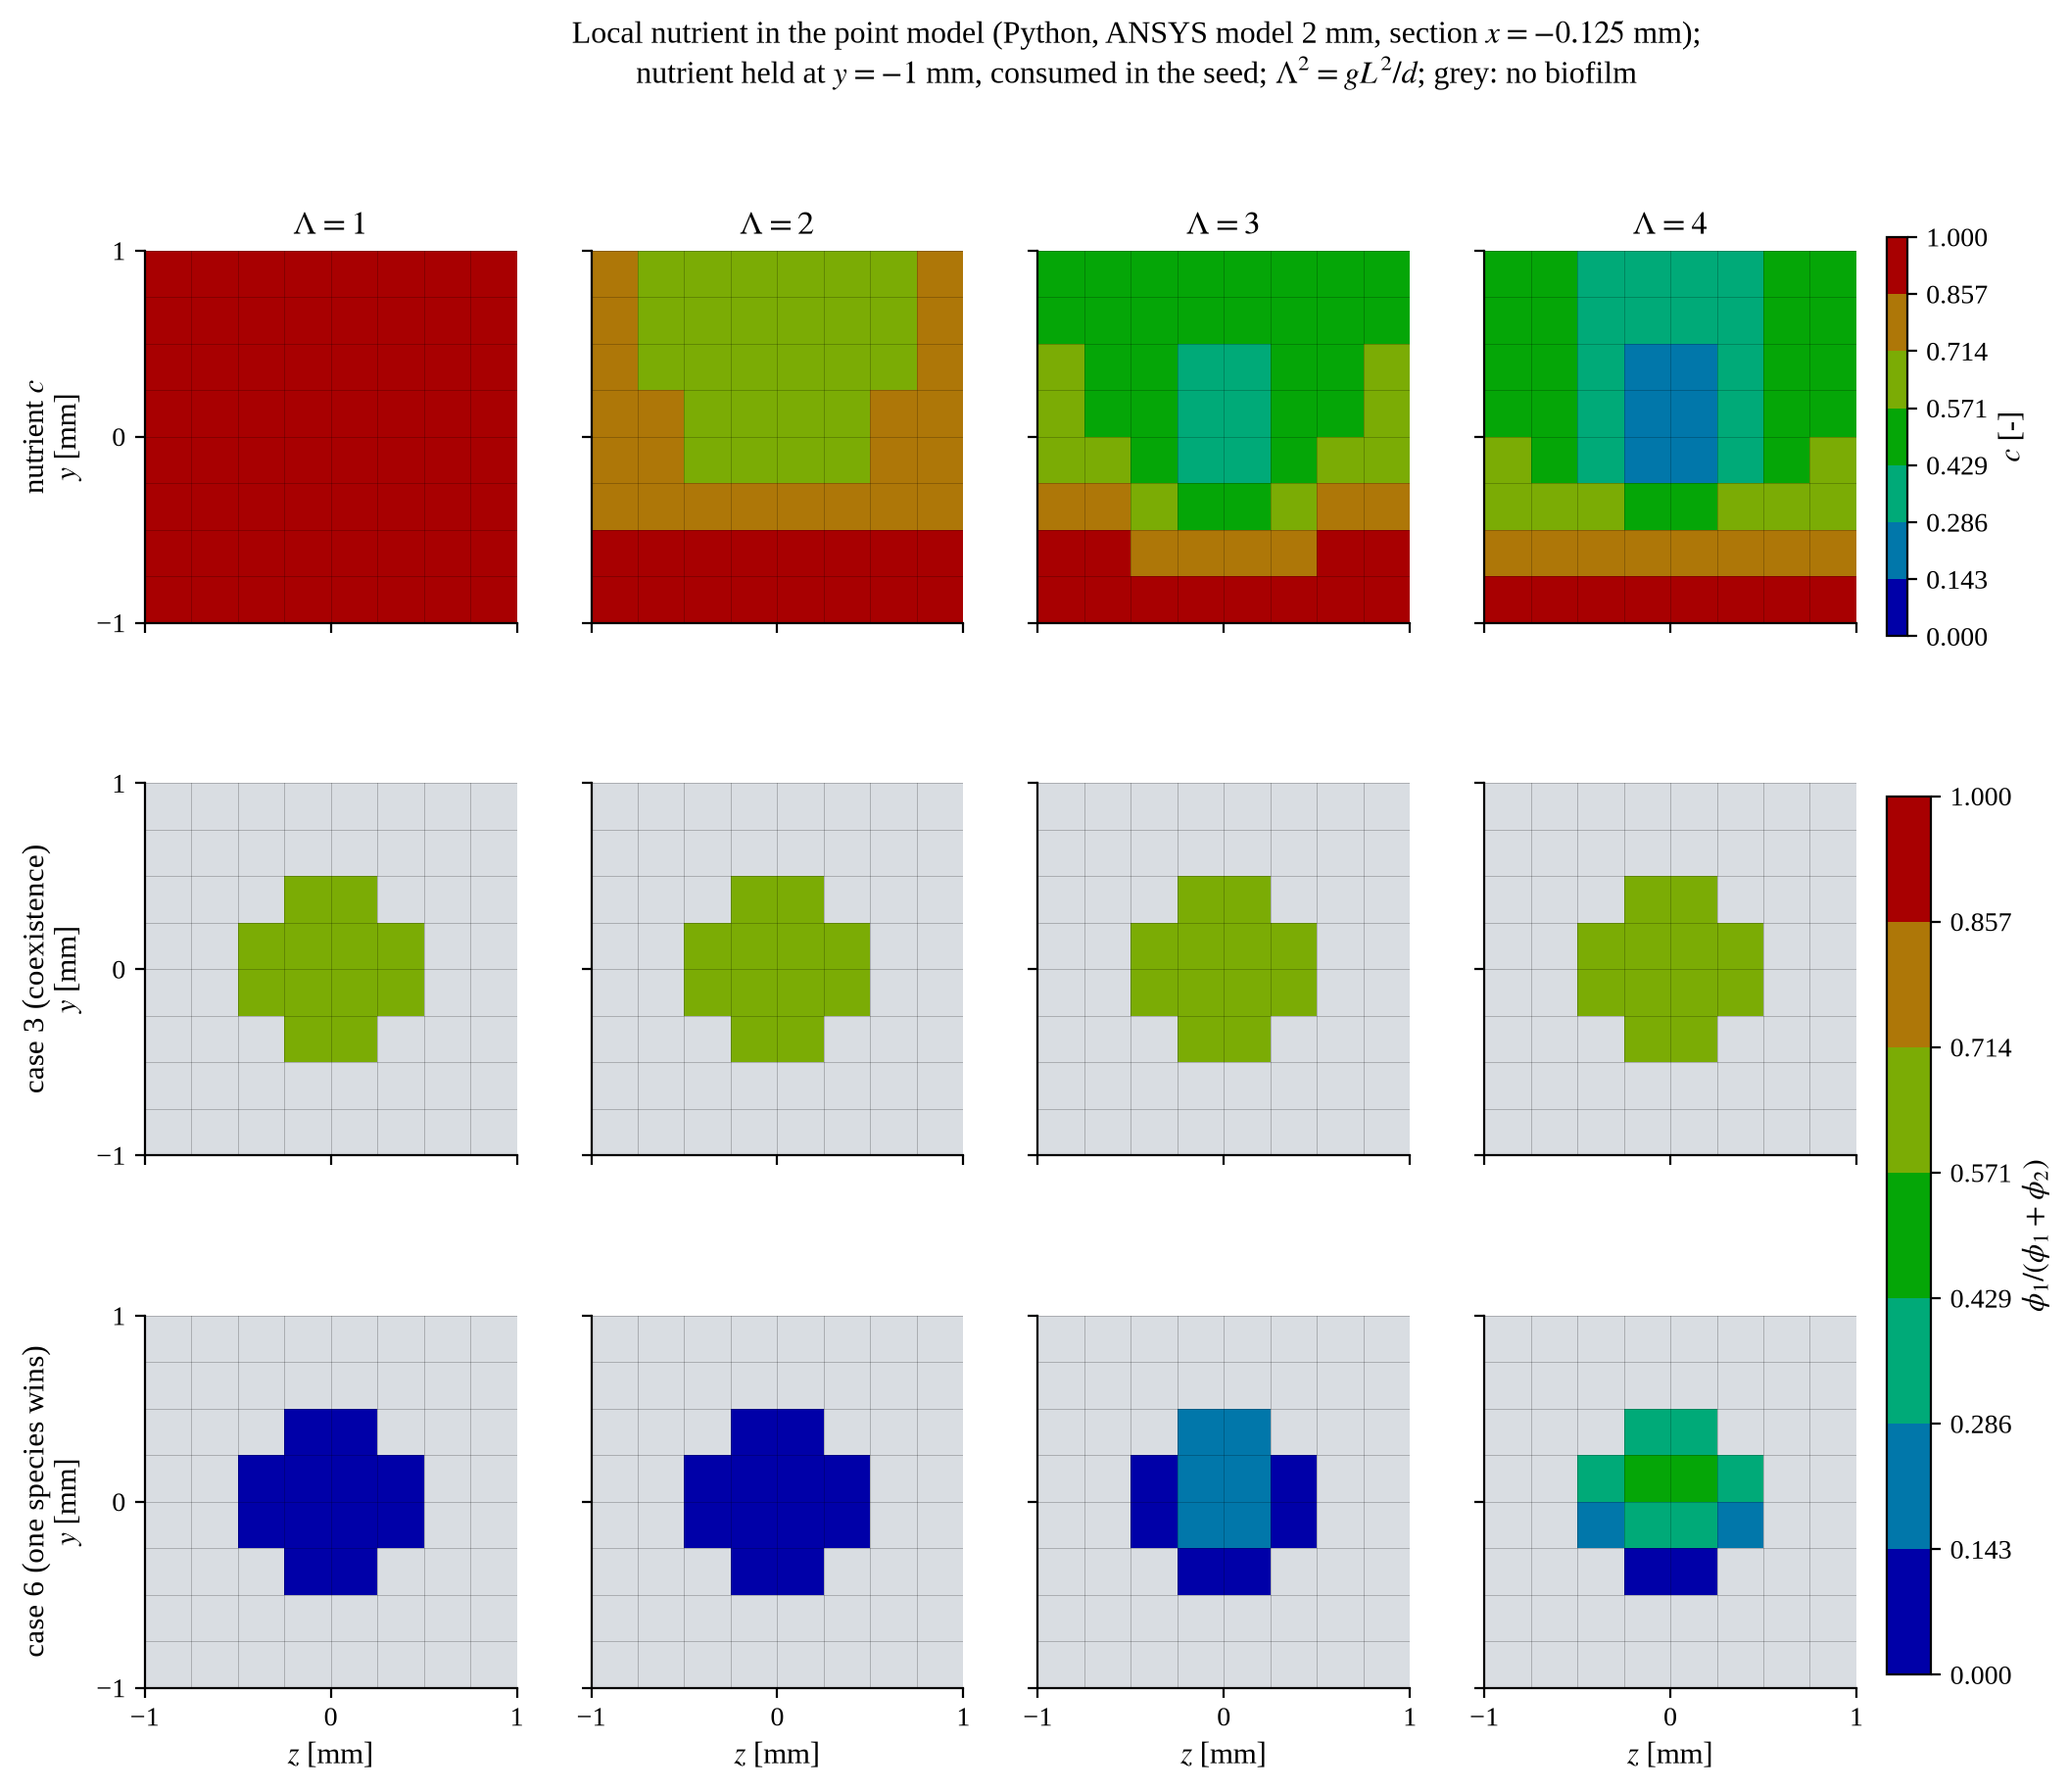
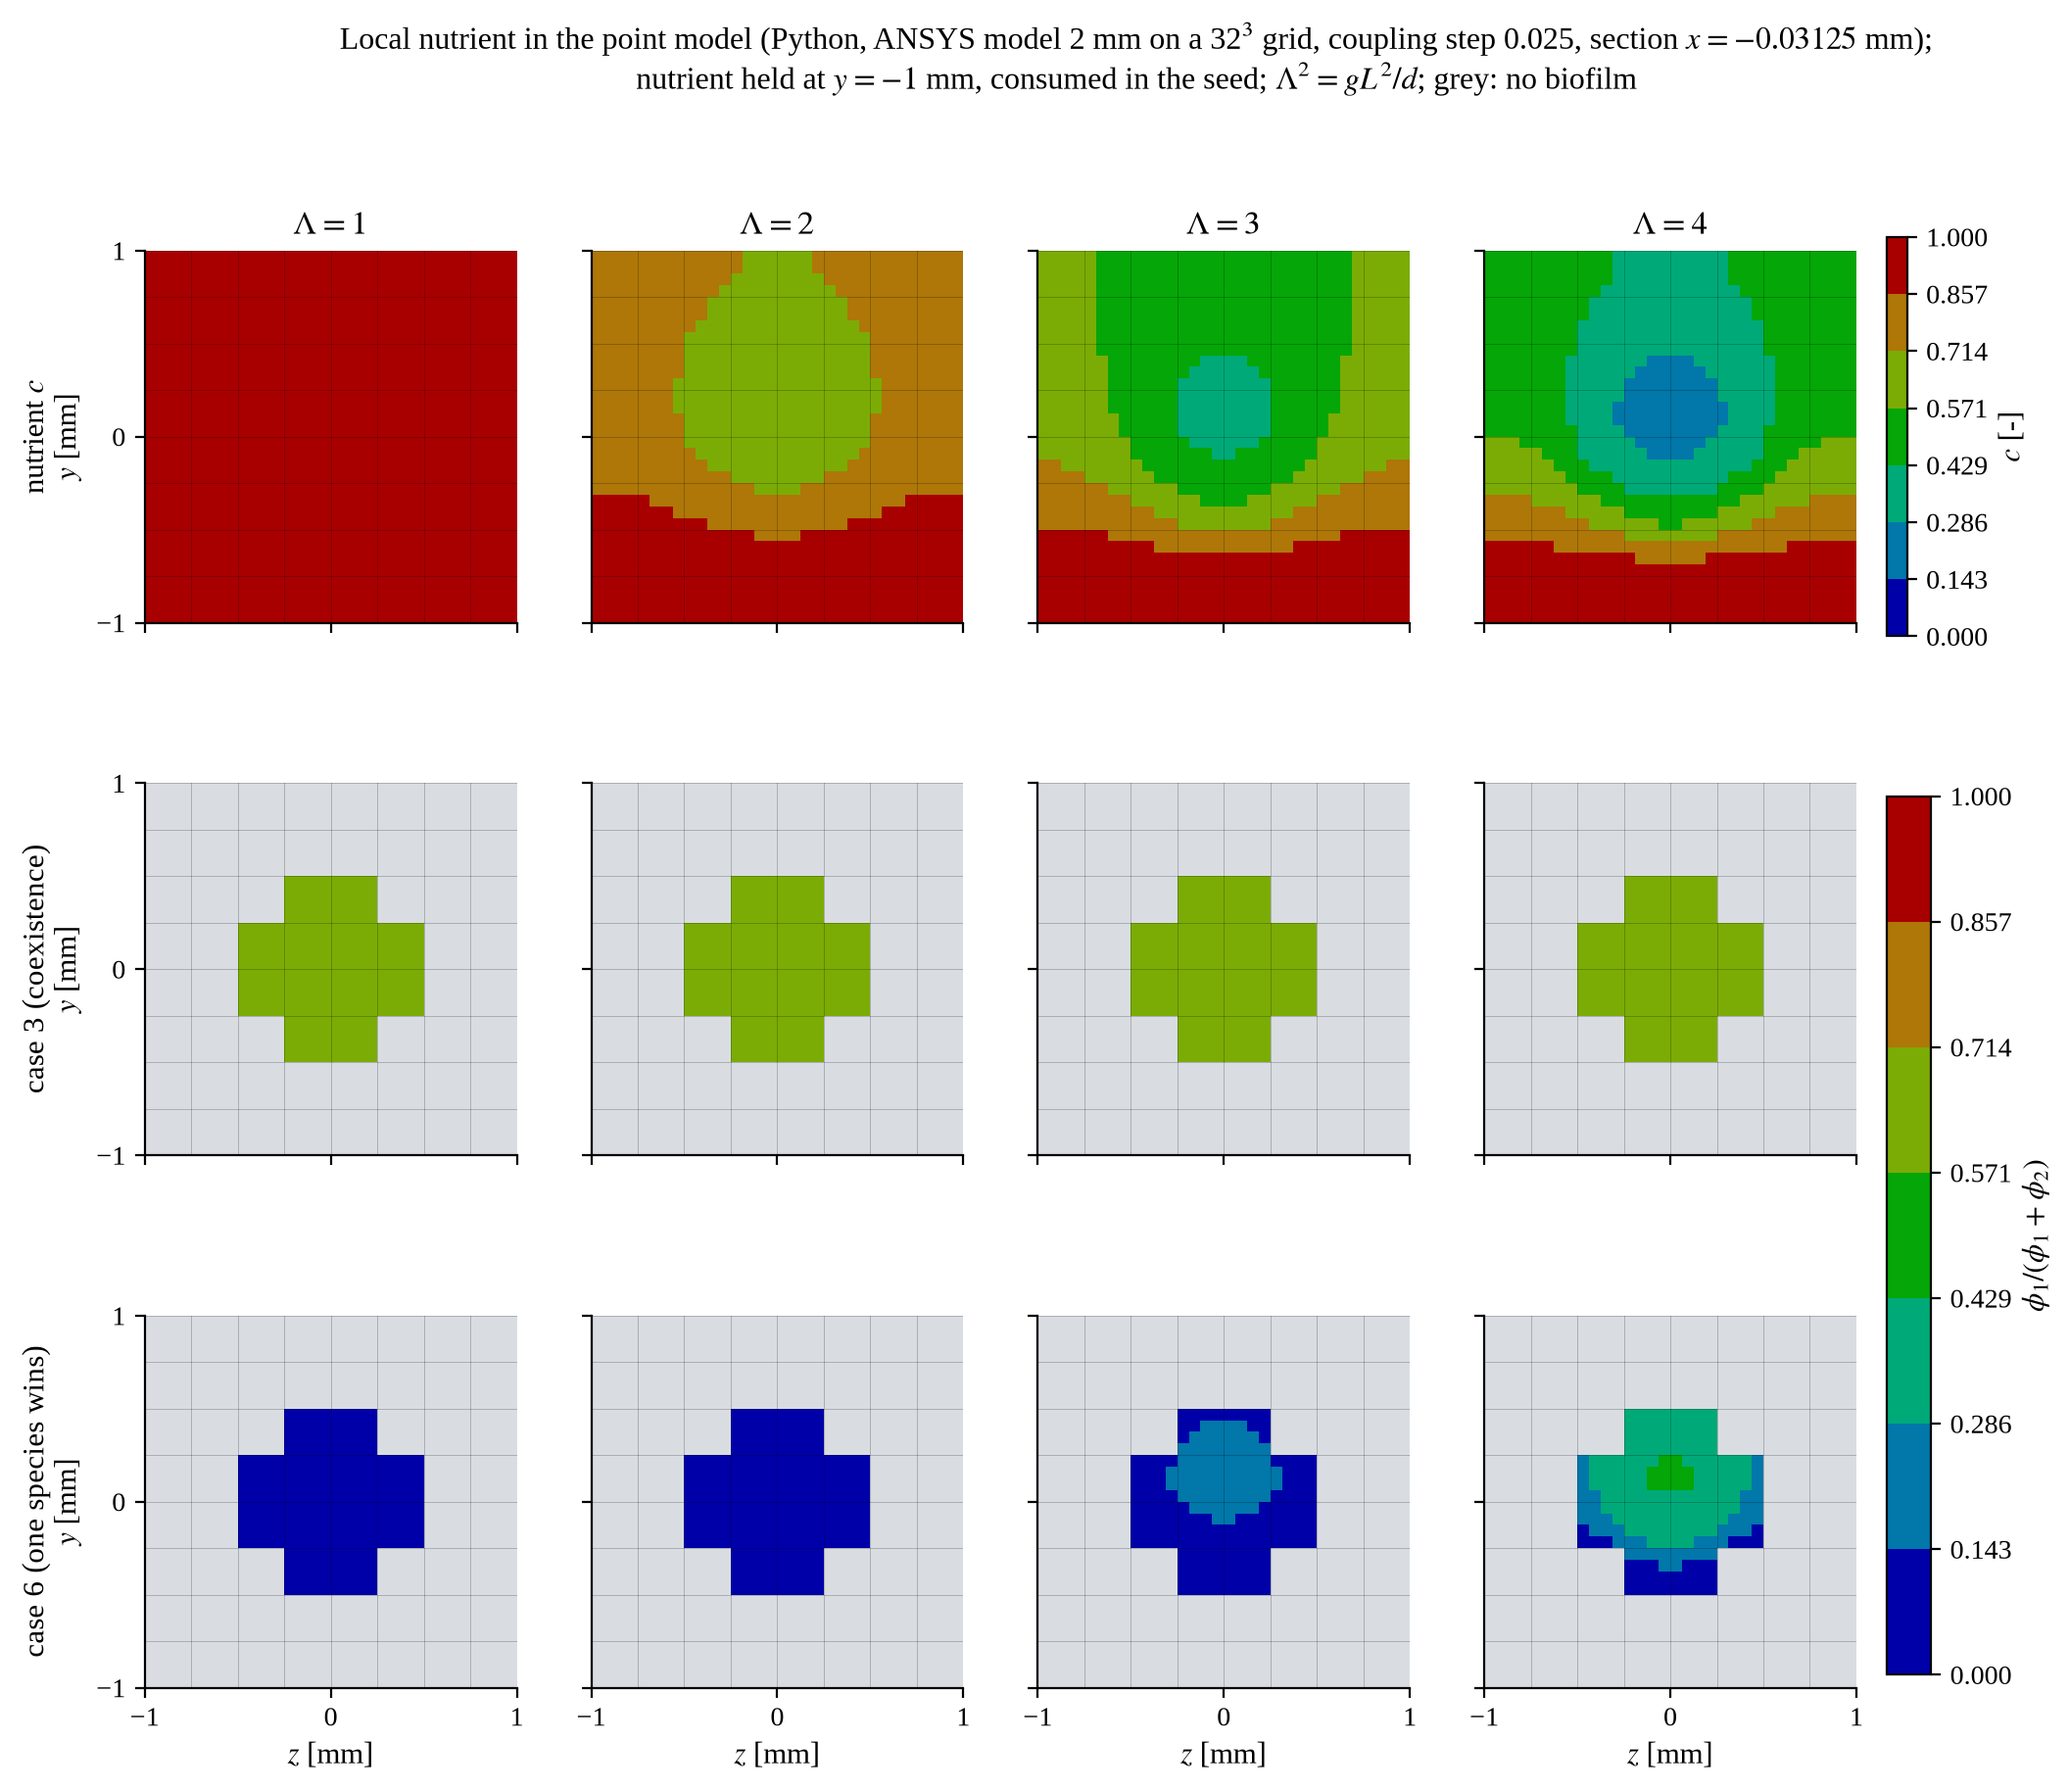
Local nutrient: convergence in grid and coupling step (case 6 share 0.03-0.44 across the seed, converged); vectorised point model; --n/--dt options

diff --git a/ansys_usermat/composition_local_nutrient.py b/ansys_usermat/composition_local_nutrient.py
@@ -18,15 +18,19 @@ y = -1 mm), without ANSYS:
     runs the coupled scheme of the ANSYS runs (amount phi_cap = 0.9, 10 coupling
     steps of 0.1, s = 0.15) with c* = c*_0 * c(x).
 
-    python ansys_usermat/composition_local_nutrient.py
+    python ansys_usermat/composition_local_nutrient.py --n 32 --dt 0.025
         -> assets/fig_composition_local_nutrient.png
 
-Result (4 Oct 2026), share phi_1/(phi_1+phi_2) in the 32 seed elements:
-  Lambda = 1 (c in the seed 0.86-0.91): case 3 0.608, case 6 0.014-0.015
-  Lambda = 2 (0.60-0.73):               case 3 0.604-0.606, case 6 0.015-0.017
-  Lambda = 3 (0.38-0.57):               case 3 0.600-0.604, case 6 0.017-0.231
-  Lambda = 4 (0.23-0.44):               case 3 0.596-0.601, case 6 0.118-0.437
-Case 3 (coexistence) hardly depends on the nutrient level. In case 6 the
+Result (4 Oct 2026), share phi_1/(phi_1+phi_2) in the seed, converged
+(32^3 grid, coupling step 0.025; the figure is made with these settings):
+  Lambda = 3: case 3 0.652-0.665, case 6 0.024-0.219
+  Lambda = 4: case 3 0.627-0.664, case 6 0.025-0.438
+Convergence: from 16^3 to 32^3 the case-6 range at Lambda = 4 stays at
+0.03-0.44; the coupling step matters more for case 3 (0.60 at 0.1, 0.66 at
+0.025, the converged value of the ANSYS runs being 0.667). On the 8^3 ANSYS
+mesh with step 0.1 the case-6 range is 0.12-0.44: the interior is resolved,
+the edge facing the nutrient is not.
+Case 3 (coexistence) depends little on the nutrient level. In case 6 the
 takeover by species 2 is slower where the nutrient is low, so the seed's
 interior, far from the nutrient face, keeps more of species 1: a composition
 that varies in space without any spreading, once the consumption is strong
@@ -52,19 +56,23 @@ import figstyle  # noqa: E402
 import model_setup_fig as M  # noqa: E402
 
 OUT = HERE.parent / "assets" / "fig_composition_local_nutrient.png"
-N, H = 8, 0.25
+N, H = 8, 0.25                                   # set by --n
 LAMBDAS = [1.0, 2.0, 3.0, 4.0]
 
 
 def grid_masks():
+    """Seed and nutrient layer of the 8^3 deck, mapped by position onto an N^3 grid
+    (a cell belongs to them when its centre lies in one of their 8^3 elements)."""
     _, cen, seed, nut, _ = M.read_deck(M.DECK)
-    idx = lambda p: tuple(int(round((v + 1) / H - 0.5)) for v in p)
-    S = np.zeros((N,) * 3, bool); D = np.zeros((N,) * 3, bool)
-    for e in seed:
-        S[idx(cen[e])] = True
-    for e in nut:
-        D[idx(cen[e])] = True
-    return S, D
+    ax = -1 + H * (np.arange(N) + 0.5)
+    X, Y, Z = np.meshgrid(ax, ax, ax, indexing="ij")
+    P = np.stack([X, Y, Z], -1)
+    def inside(ids):
+        m = np.zeros((N,) * 3, bool)
+        for e in ids:
+            m |= np.all(np.abs(P - np.asarray(cen[e])) < 0.125 + 1e-9, axis=-1)
+        return m
+    return inside(seed), inside(nut)
 
 
 def nutrient(S, D, lam):
@@ -92,27 +100,50 @@ def nutrient(S, D, lam):
 
 
 def shares(case, cvals):
+    """phi_1/(phi_1+phi_2) at T* = 1 for every nutrient level in cvals, in one
+    vectorised call: c* = c*_0 * c per point, otherwise the coupled scheme of
+    composition_transport_check (rescale, advance s*DT, rescale)."""
+    import math
+    import jax
+    import jax.numpy as jnp
+    eco = T.eco
     T.ms.set_case(case)
     th, hp = T.ms.ECOLOGY_CASE["theta"], dict(T.ms.ECOLOGY_CASE["hp"])
     T.ms.set_case(None)
-    out = []
-    for c in cvals:
-        h = dict(hp); h["c"] = hp["c"] * c
-        adv = T.stepper(th, h)
-        G = T.seed_state(1); p = np.array([T.PHI_CAP])
-        for _ in range(10):
-            G = T.rescale(G, p); G = T.rescale(adv(G), p)
-        out.append(G[0, 0] / (G[0, 0] + G[0, 1]))
-    return np.array(out)
+    dt_pm = T.S * T.DT
+    n_sub = max(1, math.ceil(dt_pm / 1e-4 - 1e-9))
+    mask = eco.active_mask(2)
+    tht = jnp.asarray(th, dtype=jnp.float64)
+    eta = jnp.asarray(hp["eta"], dtype=jnp.float64)
+    steps = jnp.arange(n_sub)
+    run = jax.jit(jax.vmap(lambda g, c: eco._substep_scan(
+        g, tht, dt_pm / n_sub, steps, mask, c, jnp.float64(hp["alpha"]), eta)[0]))
+    cv = np.asarray(cvals, dtype=float)
+    G = T.seed_state(cv.size)
+    p = np.full(cv.size, T.PHI_CAP)
+    cst = jnp.asarray(hp["c"] * cv)
+    for _ in range(int(round(1.0 / T.DT))):
+        G = T.rescale(G, p)
+        G = T.rescale(np.asarray(run(jnp.asarray(G), cst)), p)
+    return G[:, 0] / (G[:, 0] + G[:, 1])
 
 
-def main():
+def main(argv=None):
+    import argparse
+    global N, H
+    ap = argparse.ArgumentParser()
+    ap.add_argument("--n", type=int, default=8, help="cells per edge (8 = the ANSYS mesh)")
+    ap.add_argument("--dt", type=float, default=T.DT, help="coupling step (default 0.1)")
+    ap.add_argument("--out", default=str(OUT))
+    args = ap.parse_args(argv)
+    N, H = args.n, 2.0 / args.n
+    T.DT = args.dt
     figstyle.apply(size=11)
     S, D = grid_masks()
     cmap, norm = figstyle.klempt_cmap()
     fig, ax = plt.subplots(3, len(LAMBDAS), figsize=(13.5, 10))
     ext = (-1, 1, -1, 1)
-    kx = 3                                            # section x = -0.125 mm (through the seed)
+    kx = N // 2 - 1                                  # section just below x = 0 (through the seed)
     for col, lam in enumerate(LAMBDAS):
         c = nutrient(S, D, lam)
         cs = c[S]
@@ -127,7 +158,7 @@ def main():
         ax[0, col].set_title(rf"$\Lambda={lam:g}$")
         for r in range(3):
             a = ax[r, col]; a.grid(False)
-            figstyle.element_grid(a, np.linspace(-1, 1, N + 1), np.linspace(-1, 1, N + 1), alpha=0.25)
+            figstyle.element_grid(a, np.linspace(-1, 1, 9), np.linspace(-1, 1, 9), alpha=0.25)
             a.set_xticks([-1, 0, 1]); a.set_yticks([-1, 0, 1])
             if col: a.set_yticklabels([])
             if r < 2: a.set_xticklabels([])
@@ -138,11 +169,12 @@ def main():
         a.set_xlabel(r"$z$ [mm]")
     fig.colorbar(imc, ax=ax[0, :], label="$c$ [-]", shrink=0.9, pad=0.015)
     fig.colorbar(im, ax=ax[1:, :], label=r"$\phi_1/(\phi_1+\phi_2)$", shrink=0.9, pad=0.015)
-    fig.suptitle("Local nutrient in the point model (Python, ANSYS model 2 mm, section $x=-0.125$ mm);\n"
+    fig.suptitle(f"Local nutrient in the point model (Python, ANSYS model 2 mm on a {N}$^3$ grid, coupling step {T.DT:g}, "
+                 f"section $x={-H / 2:g}$ mm);\n"
                  r"nutrient held at $y=-1$ mm, consumed in the seed; $\Lambda^2=gL^2/d$; grey: no biofilm",
                  fontsize=11.5)
-    fig.savefig(OUT, dpi=200)
-    print("wrote", OUT)
+    fig.savefig(args.out, dpi=200)
+    print("wrote", args.out)
 
 
 if __name__ == "__main__":

diff --git a/ansys_usermat/two_way_step2.py b/ansys_usermat/two_way_step2.py
@@ -61,7 +61,7 @@ def run(case, d):
     G = np.zeros((n, 12)); started = np.zeros(n, bool)
     chi = np.full(phi.shape, 0.5)
     rec = {"t": [0.0], "phi": [phi.mean()], "chi": [0.5]}
-    for k in range(1, 11):
+    for k in range(1, int(round(1.0 / T.DT)) + 1):
         r_field = 100 * s * ((1 + d) * chi + (1 - d) * (1 - chi))
         K.R, K.BETA, K.K_A = r_field, 2 * s, 1e-3 * s
         _, phi, _ = B.run_setup(phi, B.nutrient_mask("edge"), 1e8, "ic", "first_order", "abs",
@@ -80,7 +80,13 @@ def run(case, d):
     return rec, phi, chi
 
 
-def main():
+def main(argv=None):
+    import argparse
+    ap = argparse.ArgumentParser()
+    ap.add_argument("--dt", type=float, default=T.DT, help="coupling step (default 0.1)")
+    ap.add_argument("--out", default=str(OUT))
+    args = ap.parse_args(argv)
+    T.DT = args.dt
     figstyle.apply(size=11)
     res = {(c, d): run(c, d) for c in CASES for d in DS}
     for c in CASES:
@@ -118,8 +124,8 @@ def main():
     fig.suptitle("Two-way coupling, step 2 (Python): front growth rate $r=\\sum_i\\chi_i r_i$, "
                  "$r_{1,2}=(1\\pm d)\\,r$ (not from a paper);\nKlempt 2024 test case 4.1 field, "
                  "mid-plane $z=10\\ \\mu$m, black: $\\phi=0.5$, grey: no biofilm", fontsize=11.5)
-    fig.savefig(OUT, dpi=200)
-    print("wrote", OUT)
+    fig.savefig(args.out, dpi=200)
+    print("wrote", args.out)
 
 
 if __name__ == "__main__":

diff --git a/ROADMAP_TWO_WAY.md b/ROADMAP_TWO_WAY.md
@@ -32,9 +32,10 @@ the species. Chapter 5 states it as a limitation.
 point model on the partner's 8^3 model (steady nutrient with first-order
 consumption in the seed, c held at y = -1 mm; Thiele number Lambda scanned
 because the partner's d and g are example inputs). Case 3 hardly changes
-(share 0.596-0.608). In case 6 the takeover is slower where c is low: for
-Lambda = 4 the share in the seed ranges from 0.12 near the nutrient face to
-0.44 in the interior (`assets/fig_composition_local_nutrient.png`). So step 1
+(share 0.63-0.66). In case 6 the takeover is slower where c is low: for
+Lambda = 4 the share in the seed ranges from 0.03 near the nutrient face to
+0.44 in the interior, converged in grid (16^3, 32^3) and coupling step (0.025)
+(`assets/fig_composition_local_nutrient.png`). So step 1
 alone gives a composition that varies in space in ANSYS, without the front
 term and without waiting for the authors.
 
